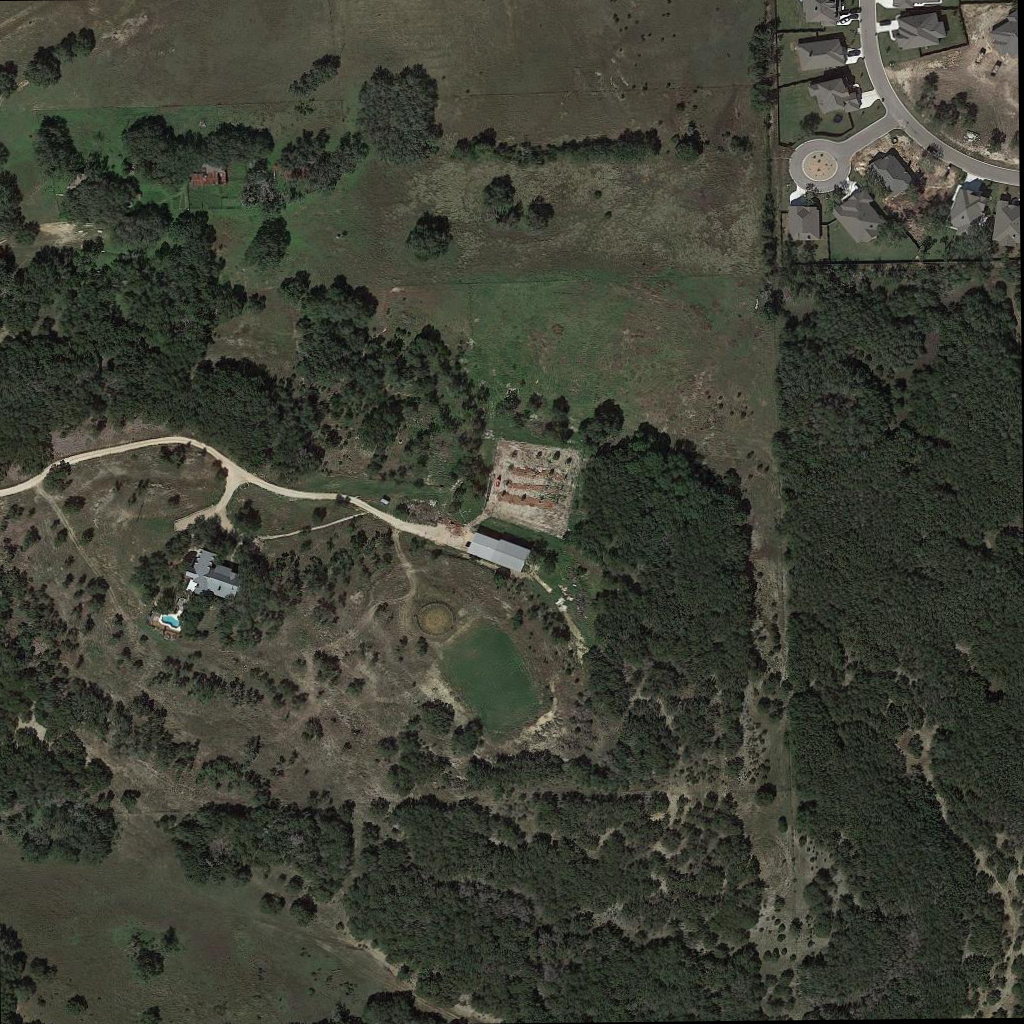
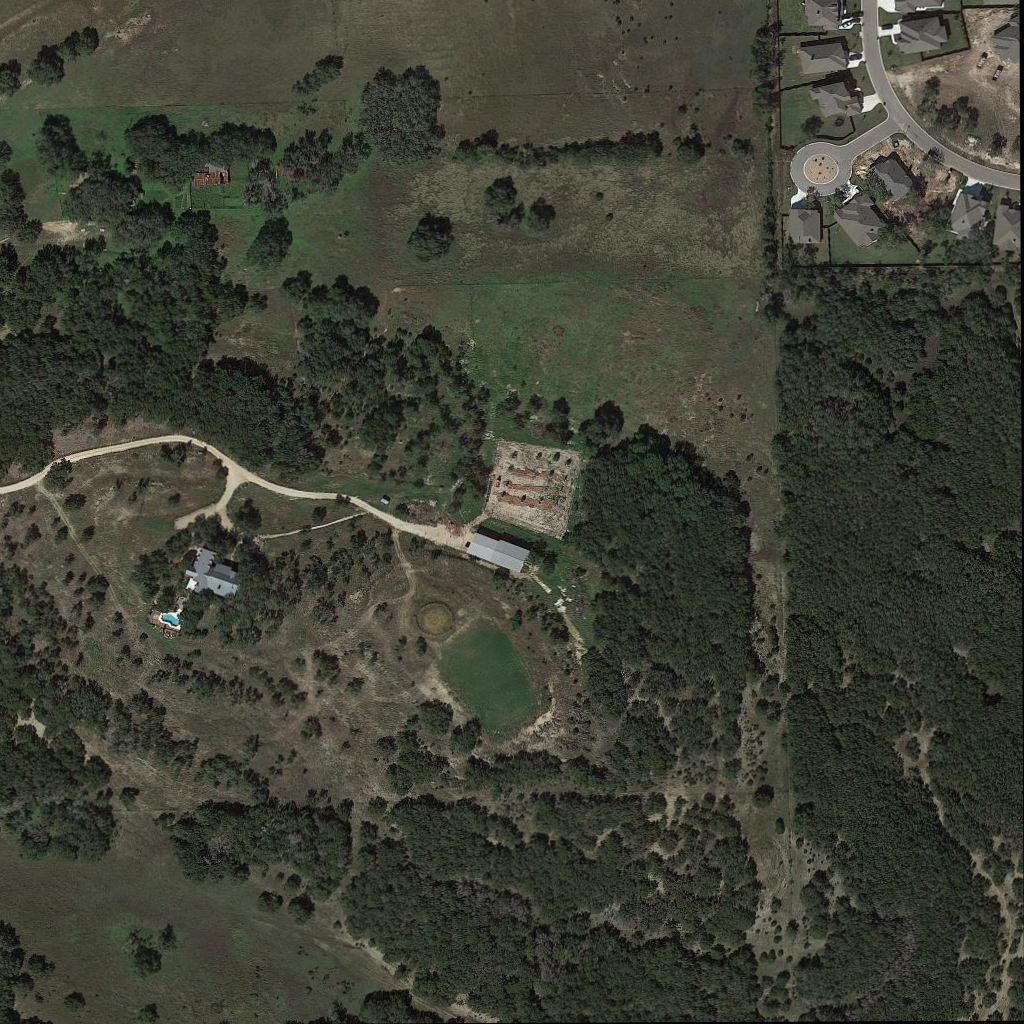
re-add variables from types.cpp and added a couple comments

diff --git a/FinalProject/types.cpp b/FinalProject/types.cpp
@@ -6,7 +6,12 @@
 
 // Image alignment parameters
 int minMatchCount = 10;          // Minimum number of ORB matches to consider a valid homography
-double diffThreshold = 30.0;     // Pixel intensity difference threshold for identifying meaningful regions
+double diffThreshold = 80.0;     // Pixel intensity difference threshold for identifying meaningful regions
+
+// Noise filtering parameters for demo
+int gaussKernelSize = 7;          // Size of the Gaussian blur kernel for noise reduction
+int morphOpenKernelSize = 5;          // Size of the morphological open operation kernel for noise reduction
+int morphCloseKernelSize = 11;          // Size of the morphological close operation kernel for noise reduction
 
 // Contour filtering parameters
 double minContourArea = 5000.0;    // Minimum area of contours to be considered meaningful regions